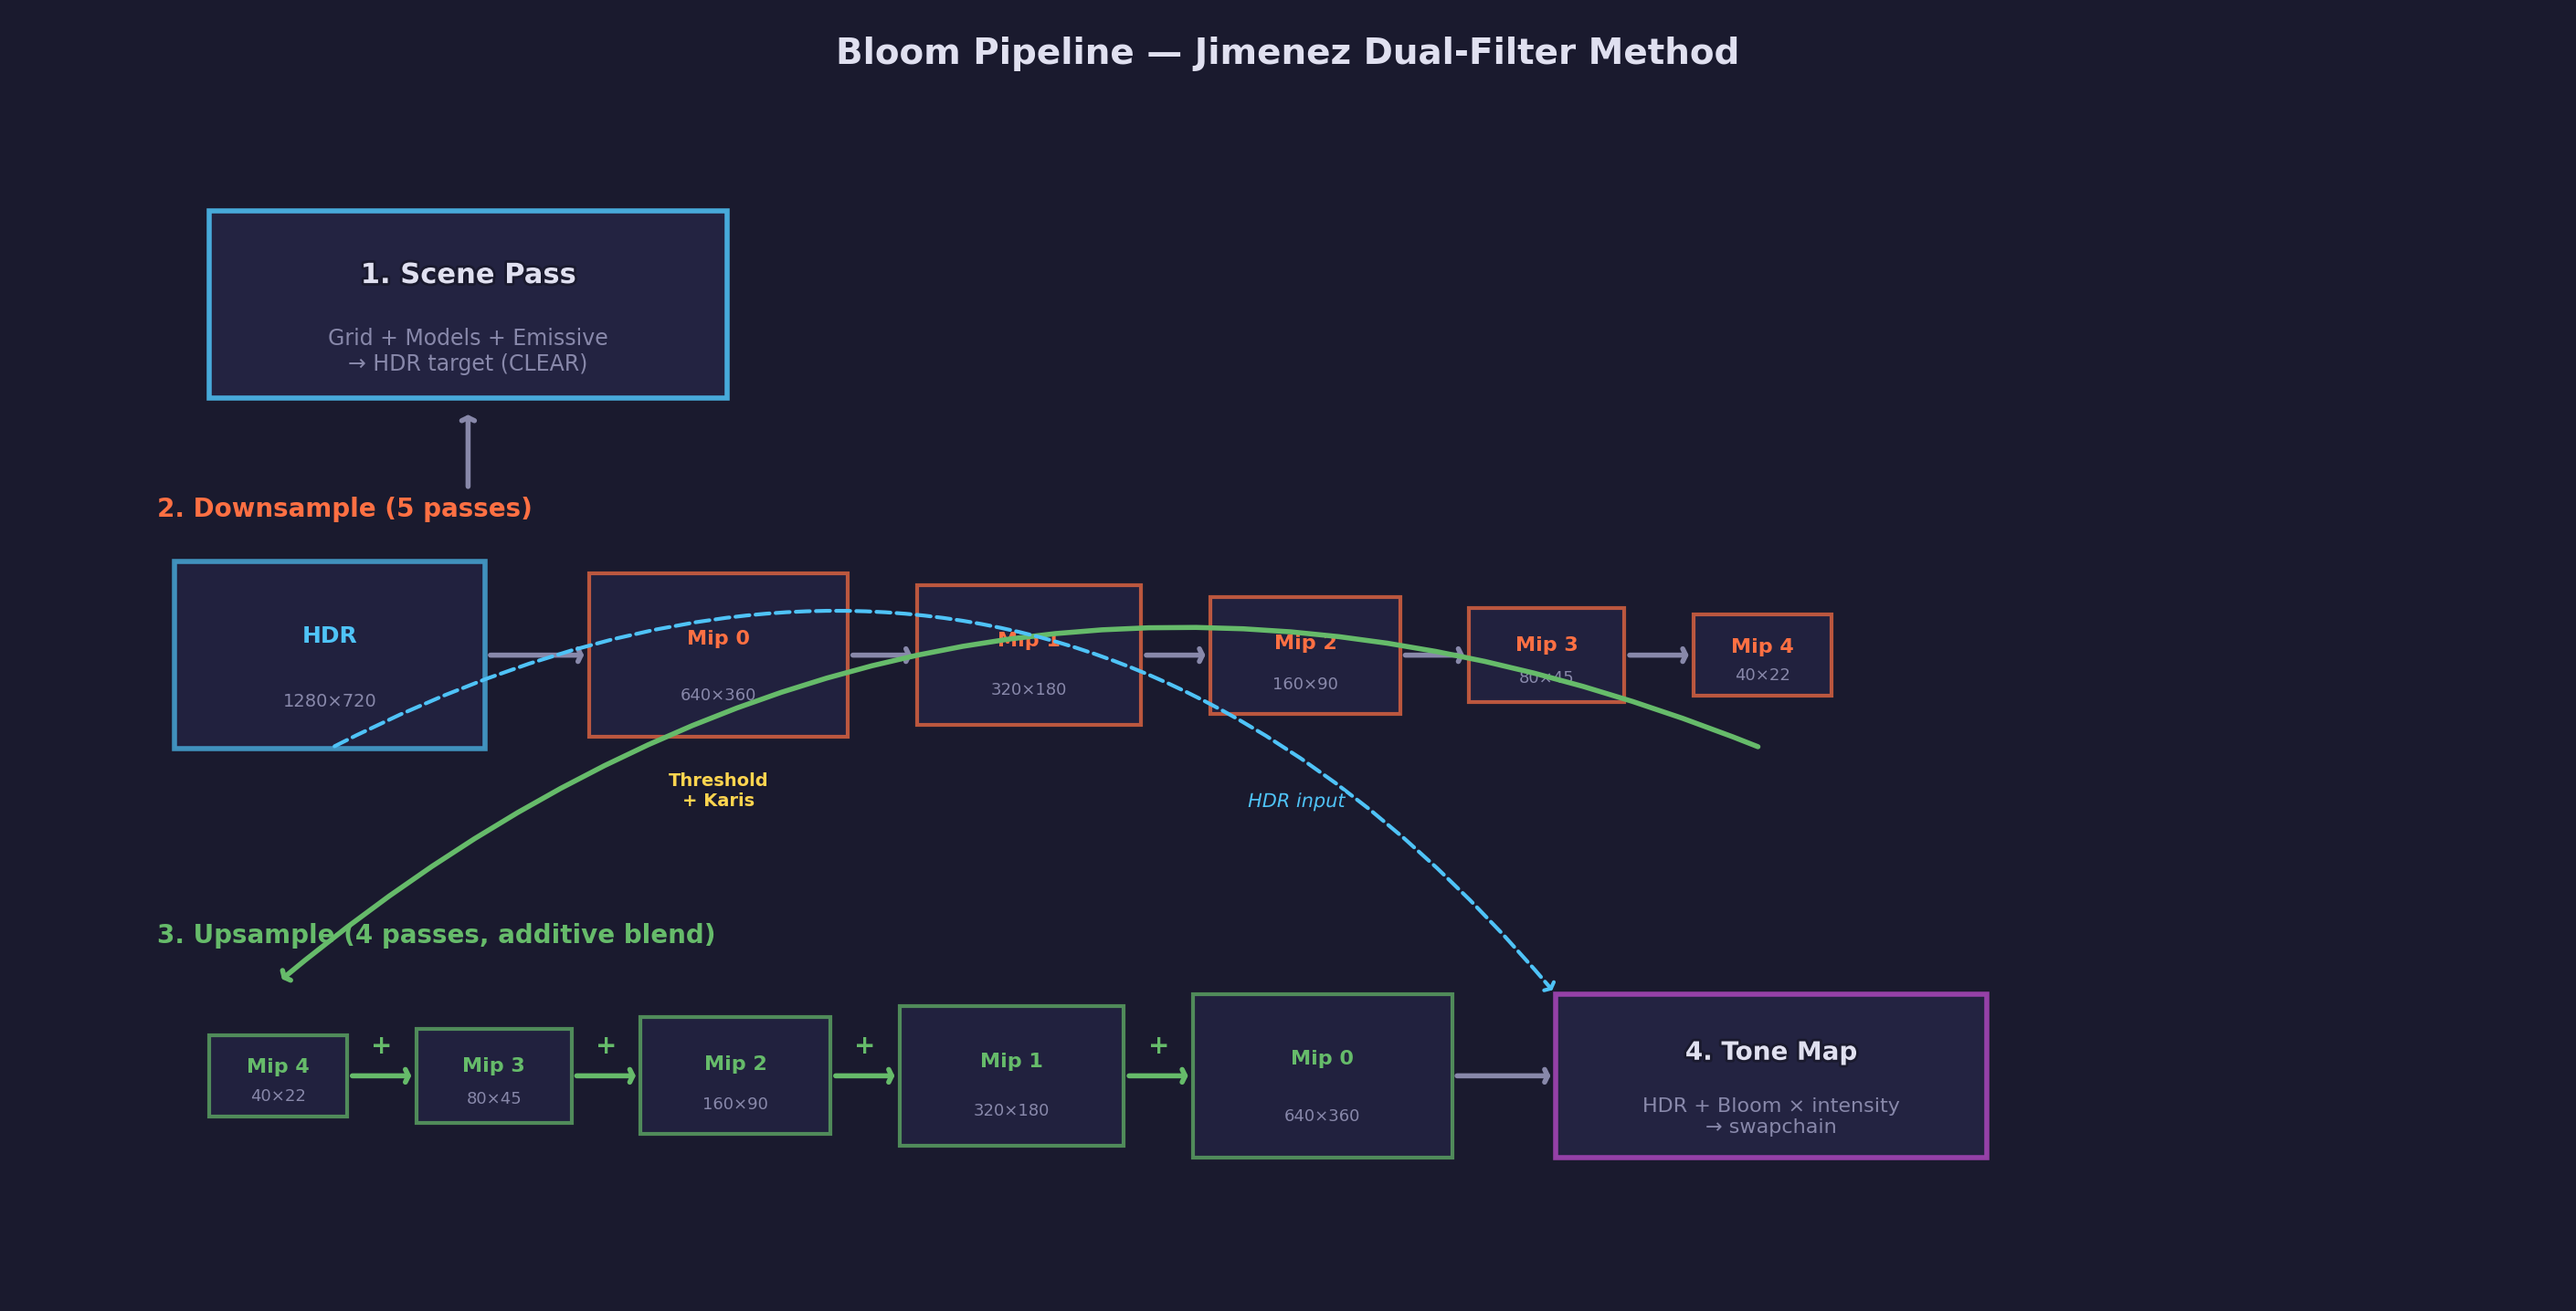
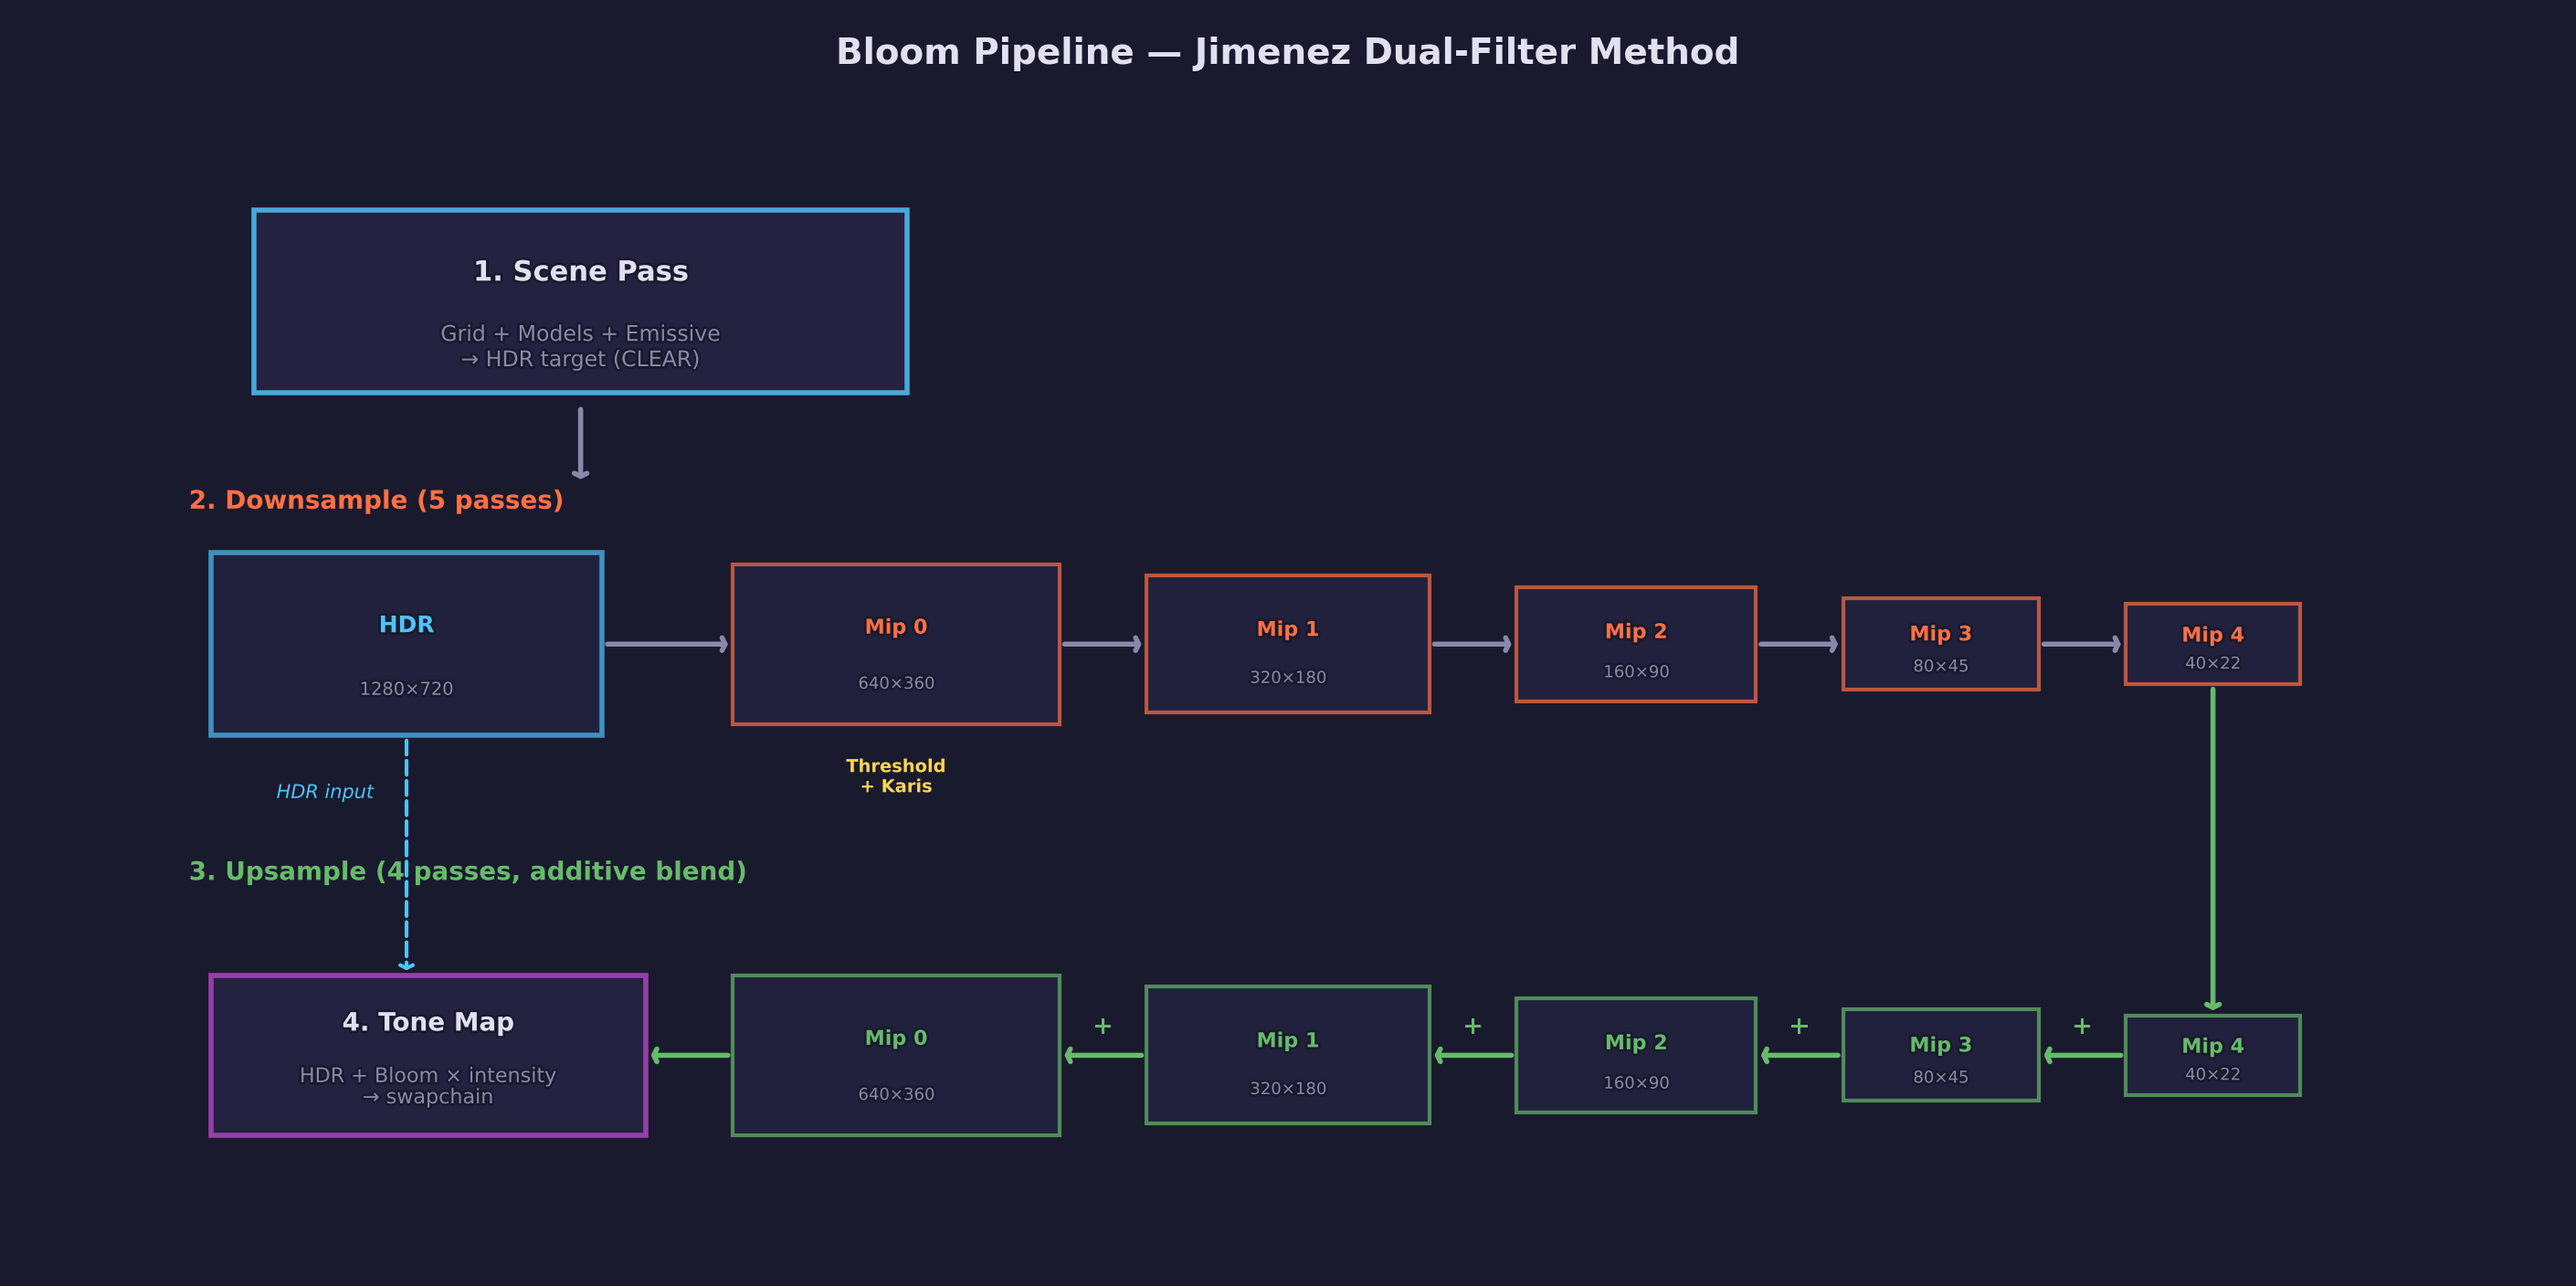
Fix bloom pipeline diagram: replace arcing arrows with aligned layout (#145)
The large curved arrows (Threshold+Karis and HDR input) were sweeping
across the entire diagram, covering mip box labels and misaligning with
their source/destination boxes. Redesigned the upsample row so each mip
sits directly below its downsample counterpart, replacing the arcs with
short straight vertical arrows. Also moved Tone Map below HDR for a
clean vertical dashed connection, and added path_effects stroke to all
text per create-diagram guidelines.

https://claude.ai/code/session_01TbDv4uwhaF5w1LzSuQHyGU

diff --git a/scripts/forge_diagrams/gpu_diagrams.py b/scripts/forge_diagrams/gpu_diagrams.py
@@ -5316,8 +5316,22 @@ def diagram_exposure_effect():
 def diagram_bloom_pipeline():
     """Full bloom render pipeline: scene → downsample chain → upsample chain → tonemap."""
     fig, ax = plt.subplots(figsize=(14, 7), facecolor=STYLE["bg"])
-    setup_axes(ax, xlim=(-0.5, 14), ylim=(-4.5, 5), grid=False, aspect=None)
+    setup_axes(ax, xlim=(-0.5, 11), ylim=(-4.5, 5), grid=False, aspect=None)
     ax.axis("off")
+
+    stroke = [pe.withStroke(linewidth=2, foreground=STYLE["bg"])]
+
+    # --- Shared arrow style ---
+    arrow_kw = {
+        "arrowstyle": "->,head_width=0.25,head_length=0.12",
+        "color": STYLE["text_dim"],
+        "lw": 2,
+    }
+    green_arrow_kw = {
+        "arrowstyle": "->,head_width=0.25,head_length=0.12",
+        "color": STYLE["accent3"],
+        "lw": 2,
+    }
 
     # --- Row 1: Scene pass ---
     scene_box = Rectangle(
@@ -5340,7 +5354,7 @@ def diagram_bloom_pipeline():
         fontweight="bold",
         ha="center",
         va="center",
-        path_effects=[pe.withStroke(linewidth=2, foreground=STYLE["bg"])],
+        path_effects=stroke,
     )
     ax.text(
         2.0,
@@ -5350,27 +5364,23 @@ def diagram_bloom_pipeline():
         fontsize=8.5,
         ha="center",
         va="center",
+        path_effects=stroke,
     )
 
     # Arrow from scene to downsample
-    arrow_kw = {
-        "arrowstyle": "->,head_width=0.25,head_length=0.12",
-        "color": STYLE["text_dim"],
-        "lw": 2,
-    }
-    ax.annotate("", xy=(2.0, 2.9), xytext=(2.0, 2.2), arrowprops=arrow_kw)
+    ax.annotate("", xy=(2.0, 2.2), xytext=(2.0, 2.9), arrowprops=arrow_kw)
 
     # --- Row 2: Downsample chain (left to right, shrinking boxes) ---
-    ds_label_y = 2.05
     ax.text(
         0.2,
-        ds_label_y,
+        2.05,
         "2. Downsample (5 passes)",
         color=STYLE["accent2"],
         fontsize=10,
         fontweight="bold",
         ha="left",
         va="center",
+        path_effects=stroke,
     )
 
     # HDR source box
@@ -5395,6 +5405,7 @@ def diagram_bloom_pipeline():
         fontweight="bold",
         ha="center",
         va="center",
+        path_effects=stroke,
     )
     ax.text(
         hdr_x + hdr_w / 2,
@@ -5404,6 +5415,7 @@ def diagram_bloom_pipeline():
         fontsize=7,
         ha="center",
         va="center",
+        path_effects=stroke,
     )
 
     mip_sizes = [
@@ -5441,6 +5453,7 @@ def diagram_bloom_pipeline():
             fontweight="bold",
             ha="center",
             va="center",
+            path_effects=stroke,
         )
         ax.text(
             cx + mw / 2,
@@ -5450,6 +5463,7 @@ def diagram_bloom_pipeline():
             fontsize=6.5,
             ha="center",
             va="center",
+            path_effects=stroke,
         )
 
         # Arrow from previous box
@@ -5480,37 +5494,36 @@ def diagram_bloom_pipeline():
                 fontweight="bold",
                 ha="center",
                 va="top",
+                path_effects=stroke,
             )
 
         mip_x_starts.append(cx)
         cx += mw + 0.4
 
-    # --- Row 3: Upsample chain (right to left, growing boxes) ---
-    us_label_y = -1.6
+    # --- Row 3: Upsample chain (right to left, aligned below downsample) ---
+    # Each upsample mip sits directly below its downsample counterpart.
+    # Arrows flow right-to-left: Mip 4 → Mip 3 → ... → Mip 0.
     ax.text(
         0.2,
-        us_label_y,
+        -1.2,
         "3. Upsample (4 passes, additive blend)",
         color=STYLE["accent3"],
         fontsize=10,
         fontweight="bold",
         ha="left",
         va="center",
+        path_effects=stroke,
     )
 
-    # Draw upsample arrows going right-to-left
     us_y_base = -3.6
-    us_mip_widths = list(reversed(mip_widths))
-    us_mip_heights = list(reversed(mip_heights))
-    us_labels = list(reversed(mip_sizes))
-    us_cx = 0.5
-    us_positions = []
+    us_positions = []  # (x, y, w, h) indexed by mip level 0..4
     for i, ((label, size), mw, mh) in enumerate(
-        zip(us_labels, us_mip_widths, us_mip_heights)
+        zip(mip_sizes, mip_widths, mip_heights)
     ):
-        my = us_y_base + (hdr_h - mh) / 2
+        ux = mip_x_starts[i]
+        uy = us_y_base + (hdr_h - mh) / 2
         rect = Rectangle(
-            (us_cx, my),
+            (ux, uy),
             mw,
             mh,
             linewidth=1.5,
@@ -5521,79 +5534,72 @@ def diagram_bloom_pipeline():
         )
         ax.add_patch(rect)
         ax.text(
-            us_cx + mw / 2,
-            my + mh * 0.6,
+            ux + mw / 2,
+            uy + mh * 0.6,
             label,
             color=STYLE["accent3"],
             fontsize=8,
             fontweight="bold",
             ha="center",
             va="center",
+            path_effects=stroke,
         )
         ax.text(
-            us_cx + mw / 2,
-            my + mh * 0.25,
+            ux + mw / 2,
+            uy + mh * 0.25,
             size,
             color=STYLE["text_dim"],
             fontsize=6.5,
             ha="center",
             va="center",
+            path_effects=stroke,
+        )
+        us_positions.append((ux, uy, mw, mh))
+
+    # Arrows between upsample mips (right to left: Mip 4 → Mip 3 → ... → Mip 0)
+    us_mid_y = us_y_base + hdr_h / 2
+    for i in range(4, 0, -1):
+        src_x = us_positions[i][0]
+        dst_x, _, dst_w, _ = us_positions[i - 1]
+        ax.annotate(
+            "",
+            xy=(dst_x + dst_w, us_mid_y),
+            xytext=(src_x, us_mid_y),
+            arrowprops=green_arrow_kw,
+        )
+        # "+" label between each pair
+        gap_mid = (src_x + dst_x + dst_w) / 2
+        ax.text(
+            gap_mid,
+            us_mid_y + 0.25,
+            "+",
+            color=STYLE["accent3"],
+            fontsize=10,
+            fontweight="bold",
+            ha="center",
+            va="center",
+            path_effects=stroke,
         )
 
-        # Arrow from previous (smaller) to this (larger)
-        if i > 0:
-            prev_x = us_positions[-1][0] + us_mip_widths[i - 1]
-            ax.annotate(
-                "",
-                xy=(us_cx, us_y_base + hdr_h / 2),
-                xytext=(prev_x, us_y_base + hdr_h / 2),
-                arrowprops={
-                    "arrowstyle": "->,head_width=0.25,head_length=0.12",
-                    "color": STYLE["accent3"],
-                    "lw": 2,
-                },
-            )
-
-        # Label "ADD" on arrows
-        if i > 0:
-            mid_x = (us_cx + us_positions[-1][0] + us_mip_widths[i - 1]) / 2
-            ax.text(
-                mid_x,
-                us_y_base + hdr_h / 2 + 0.25,
-                "+",
-                color=STYLE["accent3"],
-                fontsize=10,
-                fontweight="bold",
-                ha="center",
-                va="center",
-            )
-
-        us_positions.append((us_cx, my))
-        us_cx += mw + 0.4
-
-    # Vertical arrow from downsample mip4 down to upsample mip4
-    last_ds_x = mip_x_starts[-1] + mip_widths[-1] / 2
+    # Straight vertical arrow from downsample Mip 4 to upsample Mip 4
+    mip4_cx = mip_x_starts[4] + mip_widths[4] / 2
+    ds_mip4_bottom = hdr_y + (hdr_h - mip_heights[4]) / 2
+    us_mip4_top = us_positions[4][1] + us_positions[4][3]
     ax.annotate(
         "",
-        xy=(0.5 + us_mip_widths[0] / 2, us_y_base + hdr_h),
-        xytext=(last_ds_x, hdr_y),
-        arrowprops={
-            "arrowstyle": "->,head_width=0.25,head_length=0.12",
-            "color": STYLE["accent3"],
-            "lw": 2,
-            "connectionstyle": "arc3,rad=0.3",
-        },
+        xy=(mip4_cx, us_mip4_top),
+        xytext=(mip4_cx, ds_mip4_bottom),
+        arrowprops=green_arrow_kw,
     )
 
-    # --- Row 4: Tonemap pass ---
-    # Arrow from upsample mip0 to tonemap
-    last_us = us_positions[-1]
-    tm_x = last_us[0] + us_mip_widths[-1] + 0.6
-    tm_y = us_y_base + (hdr_h - 1.4) / 2
+    # --- Tone Map pass (below HDR, at the left end of the upsample row) ---
+    tm_w, tm_h = 2.0, 1.4
+    tm_x = hdr_x
+    tm_y = us_y_base + (hdr_h - tm_h) / 2
     tm_box = Rectangle(
         (tm_x, tm_y),
-        2.5,
-        1.4,
+        tm_w,
+        tm_h,
         linewidth=2,
         edgecolor=STYLE["accent4"],
         facecolor=STYLE["surface"],
@@ -5602,56 +5608,59 @@ def diagram_bloom_pipeline():
     )
     ax.add_patch(tm_box)
     ax.text(
-        tm_x + 1.25,
-        tm_y + 0.9,
+        tm_x + tm_w / 2,
+        tm_y + tm_h * 0.7,
         "4. Tone Map",
         color=STYLE["text"],
         fontsize=10,
         fontweight="bold",
         ha="center",
         va="center",
-        path_effects=[pe.withStroke(linewidth=2, foreground=STYLE["bg"])],
+        path_effects=stroke,
     )
     ax.text(
-        tm_x + 1.25,
-        tm_y + 0.35,
+        tm_x + tm_w / 2,
+        tm_y + tm_h * 0.3,
         "HDR + Bloom \u00d7 intensity\n\u2192 swapchain",
         color=STYLE["text_dim"],
         fontsize=8,
         ha="center",
         va="center",
+        path_effects=stroke,
     )
 
-    # Arrow from last upsample mip to tonemap
+    # Arrow from upsample Mip 0 to Tone Map
+    us_mip0_x = us_positions[0][0]
     ax.annotate(
         "",
-        xy=(tm_x, us_y_base + hdr_h / 2),
-        xytext=(last_us[0] + us_mip_widths[-1], us_y_base + hdr_h / 2),
-        arrowprops=arrow_kw,
+        xy=(tm_x + tm_w, us_mid_y),
+        xytext=(us_mip0_x, us_mid_y),
+        arrowprops=green_arrow_kw,
     )
 
-    # Arrow from HDR target to tonemap (it reads both)
+    # Straight dashed arrow from HDR down to Tone Map
+    hdr_cx = hdr_x + hdr_w / 2
     ax.annotate(
         "",
-        xy=(tm_x, tm_y + 1.4),
-        xytext=(hdr_x + hdr_w / 2, hdr_y),
+        xy=(hdr_cx, tm_y + tm_h),
+        xytext=(hdr_cx, hdr_y),
         arrowprops={
             "arrowstyle": "->,head_width=0.25,head_length=0.12",
             "color": STYLE["accent1"],
             "lw": 1.5,
             "linestyle": "--",
-            "connectionstyle": "arc3,rad=-0.4",
         },
     )
     ax.text(
-        tm_x - 1.5,
+        hdr_cx - 0.15,
         -0.5,
         "HDR input",
         color=STYLE["accent1"],
         fontsize=7.5,
         fontstyle="italic",
-        ha="center",
-        path_effects=[pe.withStroke(linewidth=2, foreground=STYLE["bg"])],
+        ha="right",
+        va="center",
+        path_effects=stroke,
     )
 
     fig.suptitle(
@@ -5659,9 +5668,9 @@ def diagram_bloom_pipeline():
         color=STYLE["text"],
         fontsize=14,
         fontweight="bold",
-        y=0.99,
+        y=0.97,
     )
-    fig.tight_layout(rect=(0, 0, 1, 0.96))
+    fig.tight_layout(rect=(0, 0, 1, 0.94))
     save(fig, "gpu/22-bloom", "bloom_pipeline.png")
 
 
